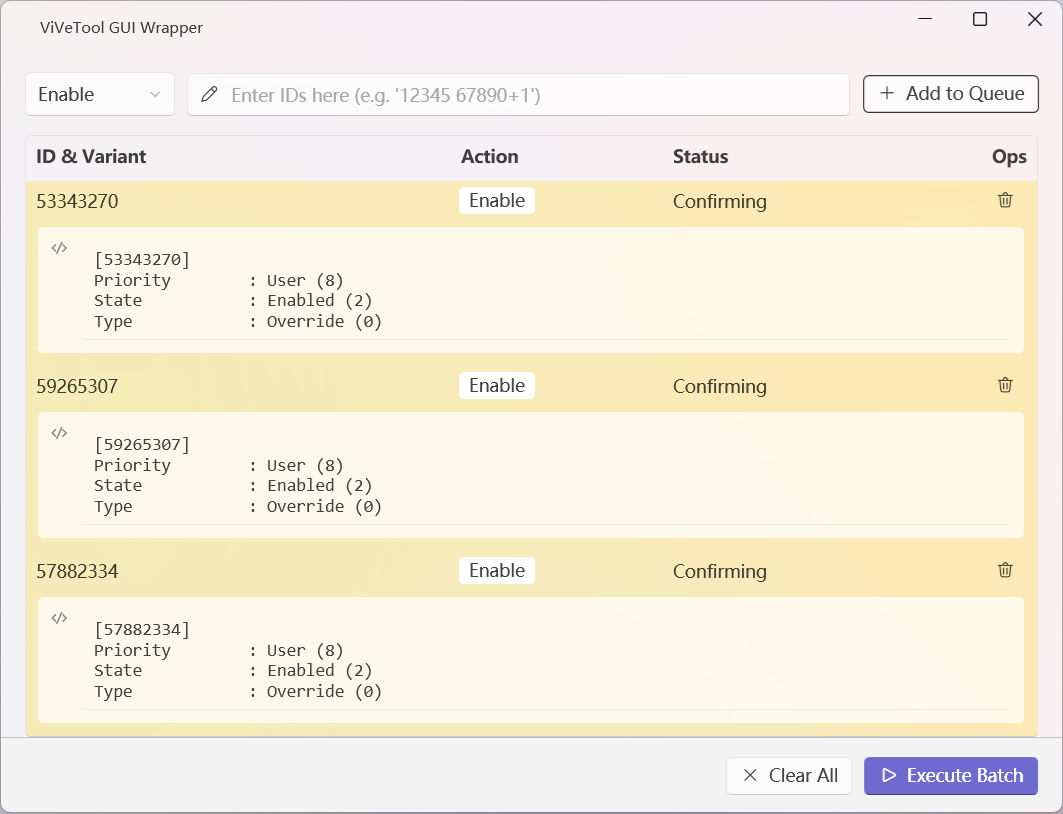
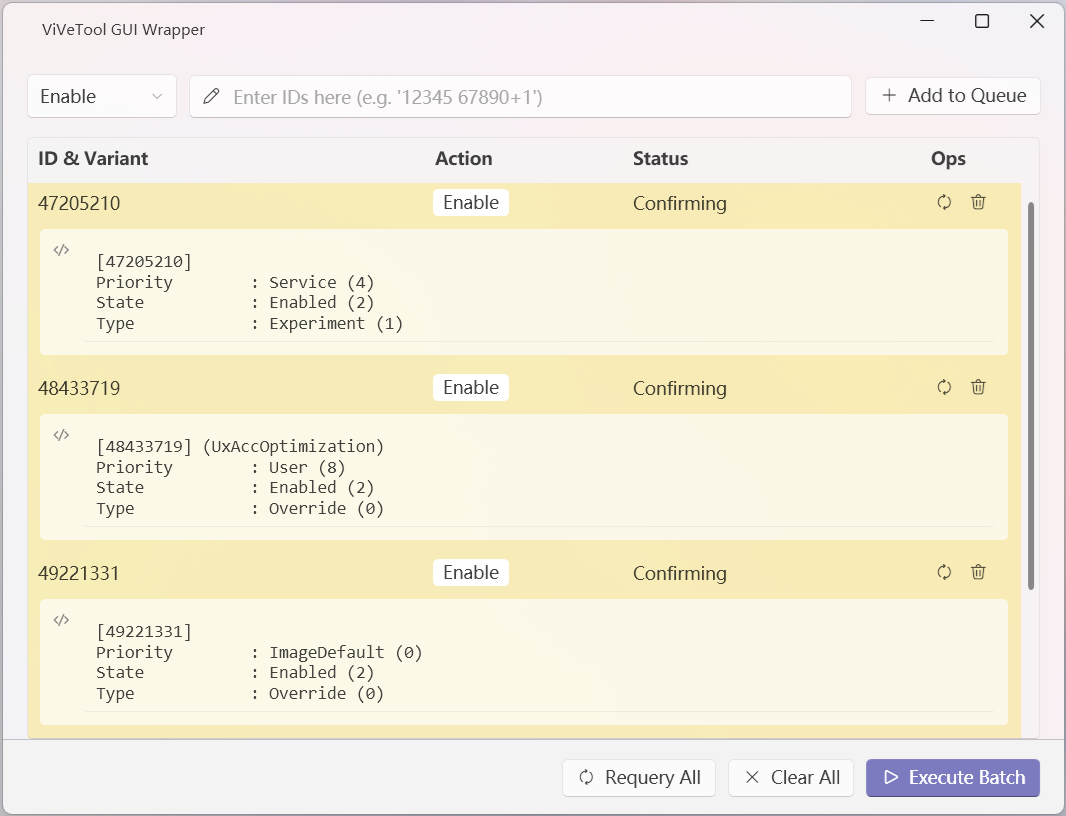
Update: v1.3.0, 增加重新查询ID状态的功能；更新Readme和应用程序清单。

diff --git a/Readme.md b/Readme.md
@@ -3,7 +3,7 @@
 轻量的 [Vivetool](https://github.com/thebookisclosed/ViVe) 图形前端，提供图形化的操作和信息显示。特点：
 - 从系统 path 环境变量查找 vivetool，实现前后端彻底分离。
 - 在提供图形化的操作结果显示的同时，保留了 vivetool 的命令行输出。
-- 在程序内维护一份操作列表，可以指定功能 ID 和要执行的操作。在决定批量应用操作前，可以删除单个或所有功能 ID 项。
+- 在程序内维护一份操作列表，可以指定功能 ID 和要执行的操作。在决定批量应用操作前，可以自由调整操作列表。
 - 将功能 ID 加入列表时自动执行状态查询查询。
 - 单文件发布，便于分发和使用。
 - 通过 WPF-UI 实现现代化的界面，支持Mica效果。
@@ -18,12 +18,13 @@
     - 本程序支持 `query` `enable` `reset` 三种操作，通过输入框左侧的下拉菜单指定将执行的操作。
     - 本程序将“维护操作列表”和“执行批量操作”分离，用户先通过 `Add to Queue` 按钮将功能 ID 及其对应的操作添加入操作列表，再点击 `Execute Batch` 按钮批量执行操作。
     - 在决定批量执行操作前，用户还可通过按钮删除单个 ID 项，或通过 `Clear Queue` 按钮清空整个操作列表。
+    - 在批量操作执行完成后，用户可通过 `Requery All` 按钮重新查询操作列表中所有 ID 的状态，以查看最新状态，或通过按钮查询单个 ID 项。
 - 操作列表
     - 以任意操作模式添加 ID 时，程序均会自动执行 `query` 操作，并显示当前状态。显式指定以 `query` 模式添加 ID 时，该 ID 项会被标记为 `Skipped`，表示该项不会在批量执行时被处理。
     - 指定其他操作时，ID 项会被标记为 `Confirmming`；操作执行完成后，视结果成功与否，ID 项会被标记为 `Confirmed` 或 `Error`。
     - 所有标记都有对应的颜色指示。
 - 输入输出
-    - 支持使用 `{ID}+{variant}` 的形式指定功能 ID 的变体，惟 ID 和 variant 之间不能有空格；支持一次输入多个 ID，ID 之间可以用空格、逗号、混用空格与逗号分隔。
+    - 支持使用 `{ID}+{variant}` 的形式指定功能 ID 的变体，惟 ID 和 variant 之间不能有空格；支持一次输入多个 ID，ID 之间可以用空格、逗号分隔，或混用空格与逗号分隔。
     - 重复输入相同的 ID 时，后输入的操作类型会覆盖前一次的操作类型。
     - 操作列表中的每一个 ID 项都会显示 vivetool 的最近一次输出，方便用户查看详细信息。
 
@@ -40,12 +41,9 @@
 
 - v1.0.0 首个稳定可用版本
 - v1.1.1 增加深色模式支持
-- v1.2.0 更新依赖。
-
-> [!Note]
-> v1.2.0: 当前版本对 WPF-UI (v4.2.0) 的 ContentDialogHost 功能缺乏支持。因此，移除了操作执行后的对话框提示。
-
+- v1.2.0 更新依赖。移除不必要的操作后对话框提示。
 - v1.2.1 更新依赖。
+- v1.3.0 增加重新查询ID状态的功能。
 
 ## 许可证
 [MIT](LICENSE.txt)
